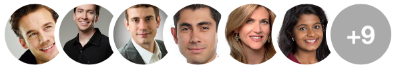
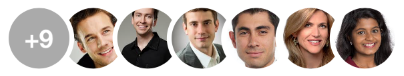
readme formatting

diff --git a/Example/OnlyPictures/ViewController.swift b/Example/OnlyPictures/ViewController.swift
@@ -23,8 +23,9 @@ class ViewController: UIViewController {
         onlyPictures.delegate = self
         onlyPictures.order = .ascending
         onlyPictures.alignment = .right
-        onlyPictures.countPosition = .right
+        onlyPictures.countPosition = .left
         onlyPictures.recentAt = .right
+        onlyPictures.gap = 44
     }
 
     override func didReceiveMemoryWarning() {
@@ -39,9 +40,9 @@ extension ViewController: OnlyPicturesDataSource {
     func numberOfPictures() -> Int {
         return pictures.count
     }
-//    func visiblePictures() -> Int {
-//        return 6
-//    }
+    func visiblePictures() -> Int {
+        return 6
+    }
     func pictureViews(index: Int) -> UIImage {
         return pictures[index]
     }
